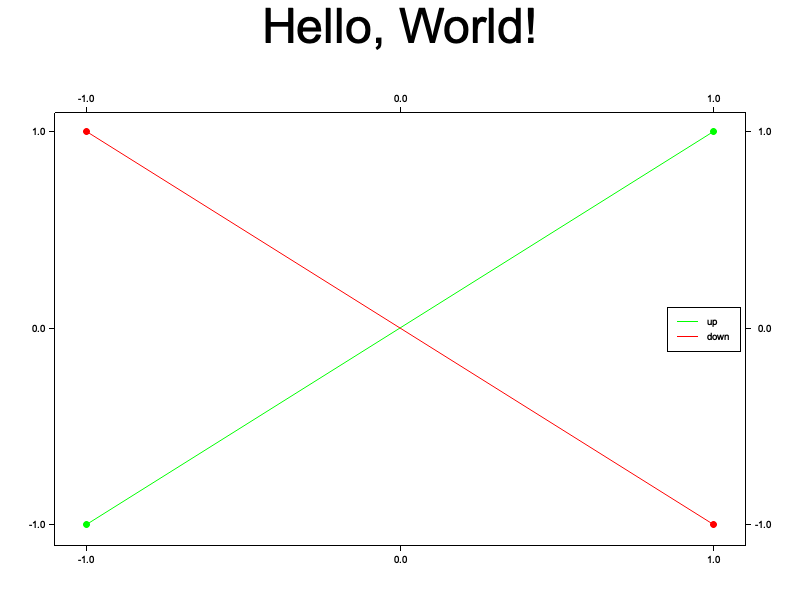
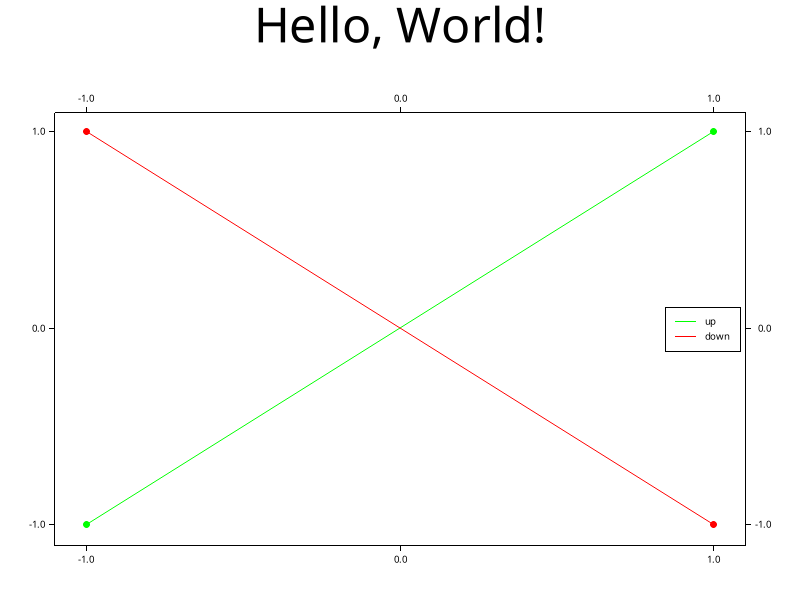
fixed servo-fontconfig-sys issue, set up flake

diff --git a/README.md b/README.md
@@ -11,10 +11,11 @@
 
 ## How to example
 
+1. In flake.nix, change `path:/home/anton/gitrepos/roc-plotters/roc` to your roc path (this will be fixed in the near future)
 1. Set up a Roc environment
 
     ```sh
-    nix-shell ./roc/shell.nix
+    nix develop ./roc
     ```
 
 1. Build Roc
